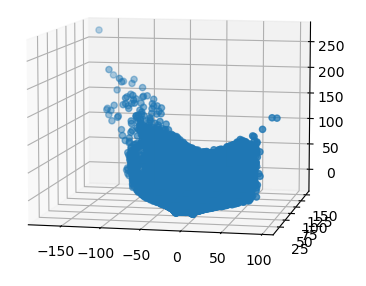
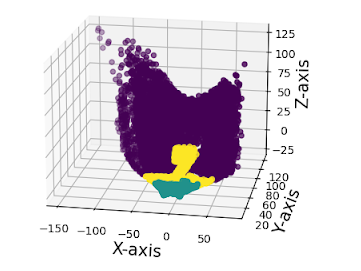
rebuilding site Thu 30 Sep 2021 12:56:15 AM EDT

diff --git a/projects/building-a-pan-tilt-3d-scanner/index.html b/projects/building-a-pan-tilt-3d-scanner/index.html
@@ -91,7 +91,7 @@
     
     
     
-    <img src="http://GatiAher.github.io/projects/building-a-pan-tilt-3d-scanner/cover_hu19189a99394ae43a9ad40051db8b8c9b_418628_d06badc1f4b460d21ecba7eab29b3c95.png" />
+    <img src="http://GatiAher.github.io/projects/building-a-pan-tilt-3d-scanner/cover_hu6c94caf68760d7d4277288601b25af50_360631_2c381dcc4f6a59c09994626007952b21.png" />
     
     
     
@@ -128,7 +128,7 @@
 
 <article>
 
-    <p>My team built a servo-driven pan-tilt mount for an infrared proximity sensor. To demonstrate the functionality of our design, we created a 3D scan of a cardboard letter cut in a Z shape. This project involved (1) designing and 3D-printing a pan-tilt servo and IR sensor, (2) programming an arduino to collect scan data, (3) projecting data from spherical coordinates into Cartesian coordinates. I was responsible for the CAD mechanical design and making the 3D data projection and visualization.</p>
+    <p>My team built a servo-driven pan-tilt mount for an infrared proximity sensor. To demonstrate the functionality of our design, we created a 3D scan of a cardboard letter cut in a Z shape. This project involved (1) designing and 3D-printing a pan-tilt servo and IR sensor, (2) programming an arduino to collect scan data, (3) projecting data from spherical coordinates into Cartesian coordinates in order to isolate a cross-section scan of the letter. I was responsible for the CAD mechanical design and making the 3D data projection and visualization.</p>
 <ul>
 <li><a href="#bill-of-materials">Bill of Materials</a>
 <ul>
@@ -151,13 +151,6 @@
 <h1 id="bill-of-materials">Bill of Materials</h1>
 <h2 id="15-gp2y0a02yk0f-sharp-infrared-proximity-sensorhttpswwwsparkfuncomdatasheetssensorsinfraredgp2y0a02yk_epdf">$15 <a href="https://www.sparkfun.com/datasheets/Sensors/Infrared/gp2y0a02yk_e.pdf">GP2Y0A02YK0F Sharp Infrared Proximity Sensor</a></h2>
 <p>An infrared proximity sensor is an infrared emitter (LED) paired with an infrared detector (photodiode). The detector measures the intensity of the IR light reflected off of an object in its field of view. The output of the sensor is an analog voltage.</p>
-<figure>
-    <img src="img/IR_specs.png"
-         alt="Infrared sensor dimensions"/> <figcaption>
-            <p>Infrared sensor dimensions</p>
-        </figcaption>
-</figure>
-
 <h2 id="two-4-hobby-servo-motorshttpshobbykingcomen_ushobbykingtm-hk15138-standard-analog-servo-4-3kg-0-17sec-38ghtml">Two $4 <a href="https://hobbyking.com/en_us/hobbykingtm-hk15138-standard-analog-servo-4-3kg-0-17sec-38g.html">Hobby Servo Motors</a></h2>
 <p>A hobby servo motor is a DC motor connected to:</p>
 <ul>
@@ -166,22 +159,8 @@
 <li>a gear train (to increase torque and decrease speed).</li>
 </ul>
 <p>A hobby servo is controlled using a square wave form that is pulsed at a fixed frequency. The time that the waveform signal is set to “on” determines what the position of the shaft should be. An arduino board with “pulse width modulation” (PWM) output pin can control a servo motor’s shaft position.</p>
-<figure>
-    <img src="img/servo_specs.png"
-         alt="Servo motor dimensions"/> <figcaption>
-            <p>Servo motor dimensions</p>
-        </figcaption>
-</figure>
-
 <h2 id="arduino-board--breadboard--assorted-circuitry">Arduino board + breadboard + assorted circuitry</h2>
 <p>The Arduino board programmatically controlled the servo motors and received analog outputs from the infrared sensor. The breadboard organized wires, power-supplies, and circuit components. To stabilize the power supply line, a by-pass capacitor of 10μF was inserted between Vcc and GND of the IR sensor.</p>
-<figure>
-    <img src="img/circuit_board.jpg"
-         alt="Final circuit"/> <figcaption>
-            <p>Final circuit</p>
-        </figcaption>
-</figure>
-
 <h1 id="cad-design-of-pan-tilt-mount">CAD Design of Pan-Tilt Mount</h1>
 <p>In this project, I used OnShape because it was free and I was familiar with it. To collect data in a spherical coordinate system, the two servo motor’s axes of rotation and the front of the infrared sensor needed to be in-line. I used the Part Studio feature to define a sketch describing the common references between the mount components. I also made sure the base part had a tabbed base so it could be stabilized with added weight.</p>
 <figure>
@@ -193,8 +172,15 @@
 
 <figure>
     <img src="img/CAD_parts.png"
-         alt="3D render of pan-tilt mount parts to 3D-print"/> <figcaption>
-            <p>3D render of pan-tilt mount parts to 3D-print</p>
+         alt="The IR sensor tilts in the y-z plane and pans in the x-y plane."/> <figcaption>
+            <p>The IR sensor tilts in the y-z plane and pans in the x-y plane.</p>
+        </figcaption>
+</figure>
+
+<figure>
+    <img src="img/fishbowl-lense.png"
+         alt="The pan-tilt mechanism&amp;rsquo;s spherical coordinate system creates a fish-bowl type distortion from the perspective of the IR camera."/> <figcaption>
+            <p>The pan-tilt mechanism&rsquo;s spherical coordinate system creates a fish-bowl type distortion from the perspective of the IR camera.</p>
         </figcaption>
 </figure>
 
@@ -207,9 +193,9 @@
 
 <h1 id="scan-demo">Scan Demo</h1>
 <figure>
-    <img src="img/demo.png"
-         alt="(right) scan set-up; (left) final scan in 3D-Cartesian plane"/> <figcaption>
-            <p>(right) scan set-up; (left) final scan in 3D-Cartesian plane</p>
+    <img src="img/orientation_setup.png"
+         alt="Data collection setup"/> <figcaption>
+            <p>Data collection setup</p>
         </figcaption>
 </figure>
 
@@ -253,13 +239,20 @@ df[<span style="color:#e6db74">&#34;distance&#34;</span>] <span style="color:#f9
         </figcaption>
 </figure>
 
-<p>The scanner has lowest noise error in the 30cm - 60cm range.</p>
+<p>According to the spec sheet, the scanner is rated for the 20 to 150 cm range. The has lowest noise and distortion error occurs the 30cm - 60cm range.</p>
 <h2 id="3-accounting-for-servo-motor-offsets">3. Accounting for Servo Motor Offsets</h2>
-<p>The 0-180 degree ranges of the servo motors were not perfectly aligned with the global axes. Therefore, an offset needs to be accounted for when converting pwm signals to degrees measurements.</p>
+<p>The 0-180 pwm input to the servo motors does not line up perfectly with the degrees on the global axes. The servo zero position is offset slightly, by 20 degrees in the tilt servo, and by -60 degrees in the pan servo. This offset needs to be removed before the tilt and pan angles are used in downstream processing.</p>
 <figure>
-    <img src="img/servo_offsets.png"
-         alt="Servo motor offsets and orientation relative to scanned object"/> <figcaption>
-            <p>Servo motor offsets and orientation relative to scanned object</p>
+    <img src="img/tilt_servo.png"
+         alt="The tilt servo is offset by 20 degrees, so it is centered at 90 - 20 = 70 pwm." height="400"/> <figcaption>
+            <p>The tilt servo is offset by 20 degrees, so it is centered at 90 - 20 = 70 pwm.</p>
+        </figcaption>
+</figure>
+
+<figure>
+    <img src="img/pan_servo.png"
+         alt="The pan servo is offset by -60 pwm, so it is centered at 90 &#43; 60 = 150 pwm" height="400"/> <figcaption>
+            <p>The pan servo is offset by -60 pwm, so it is centered at 90 + 60 = 150 pwm</p>
         </figcaption>
 </figure>
 
@@ -271,7 +264,7 @@ df[<span style="color:#e6db74">&#34;pan_deg&#34;</span>] <span style="color:#f92
 </code></pre></div><h2 id="4-projection-from-spherical-to-cartesian-coordinates">4. Projection from Spherical to Cartesian Coordinates</h2>
 <figure>
     <img src="img/coordinate_plane.jpg"
-         alt="Conversion from Spherical Coordinate Plane to Cartesian Coordinate Plane (Source: LiDAR Basics: The Coordinate System)"/> <figcaption>
+         alt="Conversion from Spherical Coordinate Plane to Cartesian Coordinate Plane (Source: LiDAR Basics: The Coordinate System)" height="400"/> <figcaption>
             <p>Conversion from Spherical Coordinate Plane to Cartesian Coordinate Plane (Source: <a href="https://hackernoon.com/lidar-basics-the-coordinate-system-a26529615df9">LiDAR Basics: The Coordinate System</a>)</p>
         </figcaption>
 </figure>
@@ -294,7 +287,7 @@ df[<span style="color:#e6db74">&#34;zs&#34;</span>] <span style="color:#f92672">
 df[<span style="color:#e6db74">&#34;xs&#34;</span>] <span style="color:#f92672">=</span> df<span style="color:#f92672">.</span>apply(<span style="color:#66d9ef">lambda</span> row: row[<span style="color:#e6db74">&#34;xs&#34;</span>] <span style="color:#f92672">*</span> <span style="color:#f92672">-</span><span style="color:#ae81ff">1</span>, axis<span style="color:#f92672">=</span><span style="color:#ae81ff">1</span>)
 </code></pre></div><h2 id="5-3d-scan-visualization">5. 3D Scan Visualization</h2>
 <figure>
-    <img src="img/3D_scan_total.png"
+    <img src="img/scan_demo.png"
          alt="All 3D scan points"/> <figcaption>
             <p>All 3D scan points</p>
         </figcaption>
@@ -302,7 +295,7 @@ df[<span style="color:#e6db74">&#34;xs&#34;</span>] <span style="color:#f92672">
 
 <p>To isolate the letter from the wall and the floor, we can look at the point distributions along the y-axis (axis of distance between servo and scanned object).</p>
 <figure>
-    <img src="img/y_axis_distribution.png"
+    <img src="img/y-axis-distribution.png"
          alt="Distribution of scan y-coordinates"/> <figcaption>
             <p>Distribution of scan y-coordinates</p>
         </figcaption>
@@ -315,7 +308,7 @@ df[<span style="color:#e6db74">&#34;xs&#34;</span>] <span style="color:#f92672">
 <li>60cm-ish and onwards is the wall</li>
 </ul>
 <figure>
-    <img src="img/scan_total.png"
+    <img src="img/3D_scan_total.png"
          alt="All 3D scan points, positioned in x-z plan labeled according to position along y-axis"/> <figcaption>
             <p>All 3D scan points, positioned in x-z plan labeled according to position along y-axis</p>
         </figcaption>

diff --git a/categories/software-development/index.html b/categories/software-development/index.html
@@ -100,12 +100,12 @@
 
 
 
-<img src="http://GatiAher.github.io/projects/building-a-pan-tilt-3d-scanner/cover_hu19189a99394ae43a9ad40051db8b8c9b_418628_600x0_resize_box_2.png" />
+<img src="http://GatiAher.github.io/projects/building-a-pan-tilt-3d-scanner/cover_hu6c94caf68760d7d4277288601b25af50_360631_600x0_resize_box_2.png" />
 
 
 
     <div class="description">
-    <p>My team built a servo-driven pan-tilt mount for an infrared proximity sensor. To demonstrate the functionality of our design, we created a 3D scan of a cardboard letter cut in a Z shape. This project involved (1) designing and 3D-printing a pan-tilt servo and IR sensor, (2) programming an arduino to collect scan data, (3) projecting data from spherical coordinates into Cartesian coordinates. I was responsible for the CAD mechanical design and making the 3D data projection and visualization.</p> 
+    <p>My team built a servo-driven pan-tilt mount for an infrared proximity sensor. To demonstrate the functionality of our design, we created a 3D scan of a cardboard letter cut in a Z shape. This project involved (1) designing and 3D-printing a pan-tilt servo and IR sensor, (2) programming an arduino to collect scan data, (3) projecting data from spherical coordinates into Cartesian coordinates in order to isolate a cross-section scan of the letter. I was responsible for the CAD mechanical design and making the 3D data projection and visualization.</p> 
 </div>
     <div class="tags">
     

diff --git a/projects/index.html b/projects/index.html
@@ -100,12 +100,12 @@
 
 
 
-<img src="http://GatiAher.github.io/projects/building-a-pan-tilt-3d-scanner/cover_hu19189a99394ae43a9ad40051db8b8c9b_418628_600x0_resize_box_2.png" />
+<img src="http://GatiAher.github.io/projects/building-a-pan-tilt-3d-scanner/cover_hu6c94caf68760d7d4277288601b25af50_360631_600x0_resize_box_2.png" />
 
 
 
     <div class="description">
-    <p>My team built a servo-driven pan-tilt mount for an infrared proximity sensor. To demonstrate the functionality of our design, we created a 3D scan of a cardboard letter cut in a Z shape. This project involved (1) designing and 3D-printing a pan-tilt servo and IR sensor, (2) programming an arduino to collect scan data, (3) projecting data from spherical coordinates into Cartesian coordinates. I was responsible for the CAD mechanical design and making the 3D data projection and visualization.</p> 
+    <p>My team built a servo-driven pan-tilt mount for an infrared proximity sensor. To demonstrate the functionality of our design, we created a 3D scan of a cardboard letter cut in a Z shape. This project involved (1) designing and 3D-printing a pan-tilt servo and IR sensor, (2) programming an arduino to collect scan data, (3) projecting data from spherical coordinates into Cartesian coordinates in order to isolate a cross-section scan of the letter. I was responsible for the CAD mechanical design and making the 3D data projection and visualization.</p> 
 </div>
     <div class="tags">
     

diff --git a/tags/olin-college-fa2021-principals-of-integrated-engineering/index.html b/tags/olin-college-fa2021-principals-of-integrated-engineering/index.html
@@ -100,12 +100,12 @@
 
 
 
-<img src="http://GatiAher.github.io/projects/building-a-pan-tilt-3d-scanner/cover_hu19189a99394ae43a9ad40051db8b8c9b_418628_600x0_resize_box_2.png" />
+<img src="http://GatiAher.github.io/projects/building-a-pan-tilt-3d-scanner/cover_hu6c94caf68760d7d4277288601b25af50_360631_600x0_resize_box_2.png" />
 
 
 
     <div class="description">
-    <p>My team built a servo-driven pan-tilt mount for an infrared proximity sensor. To demonstrate the functionality of our design, we created a 3D scan of a cardboard letter cut in a Z shape. This project involved (1) designing and 3D-printing a pan-tilt servo and IR sensor, (2) programming an arduino to collect scan data, (3) projecting data from spherical coordinates into Cartesian coordinates. I was responsible for the CAD mechanical design and making the 3D data projection and visualization.</p> 
+    <p>My team built a servo-driven pan-tilt mount for an infrared proximity sensor. To demonstrate the functionality of our design, we created a 3D scan of a cardboard letter cut in a Z shape. This project involved (1) designing and 3D-printing a pan-tilt servo and IR sensor, (2) programming an arduino to collect scan data, (3) projecting data from spherical coordinates into Cartesian coordinates in order to isolate a cross-section scan of the letter. I was responsible for the CAD mechanical design and making the 3D data projection and visualization.</p> 
 </div>
     <div class="tags">
     
